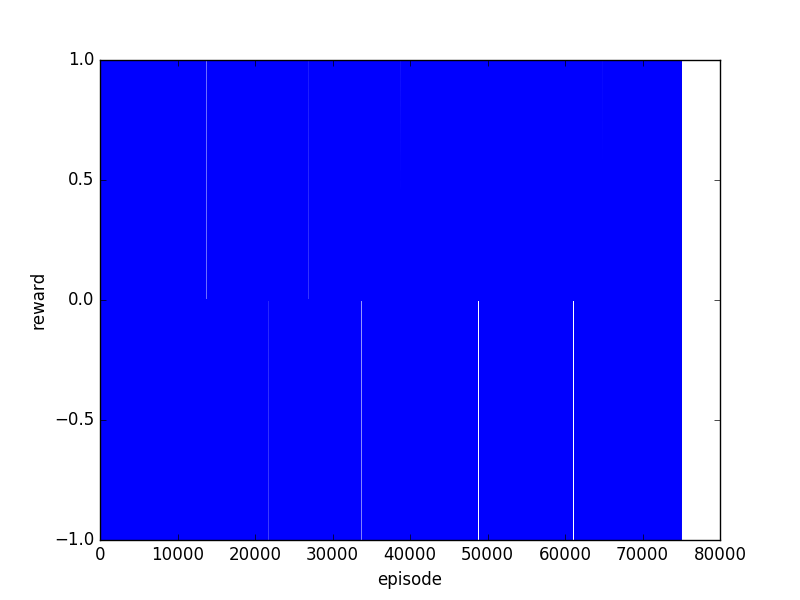
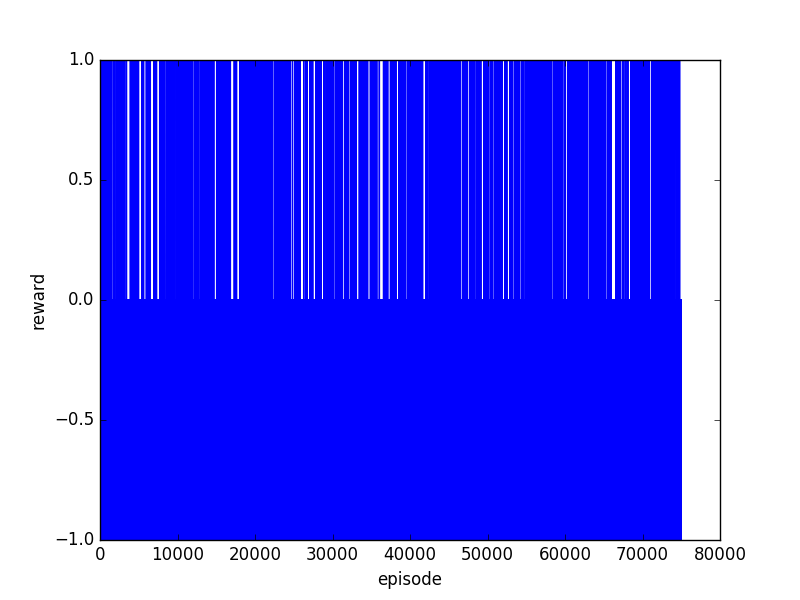
learning minion2

diff --git a/PLE/ple/games/jumpbird/__init__.py b/PLE/ple/games/jumpbird/__init__.py
@@ -450,7 +450,7 @@ class FlappyBird(base.PyGameWrapper):
 
         #handle player movement
         self._handle_player_events()
-        cc=0
+        #cc=0
         for p in self.pipe_group:
             # hit = pygame.sprite.spritecollide(self.player, self.pipe_group, False)
             # for h in hit:    #do check to see if its within the gap.
@@ -492,7 +492,8 @@ class FlappyBird(base.PyGameWrapper):
 
         if self.lives <= 0:
             self.score += self.rewards["loss"]
-
+        if self.player.flapped==True:
+            self.score += self.rewards["negative"]
         #draw part
         self.backdrop.draw_background(self.screen)
         self.pipe_group.draw(self.screen)

diff --git a/PLE/ple/games/minion/__init__.py b/PLE/ple/games/minion/__init__.py
@@ -314,7 +314,6 @@ class FlappyBird(base.PyGameWrapper):
         for p in self.pipe_group:
             if p.x > self.player.pos_x:
                 pipes.append((p, p.x - self.player.pos_x))
-        print len(pipes)
         sorted(pipes, key=lambda p: p[1])
 
         next_pipe = pipes[1][0] 
